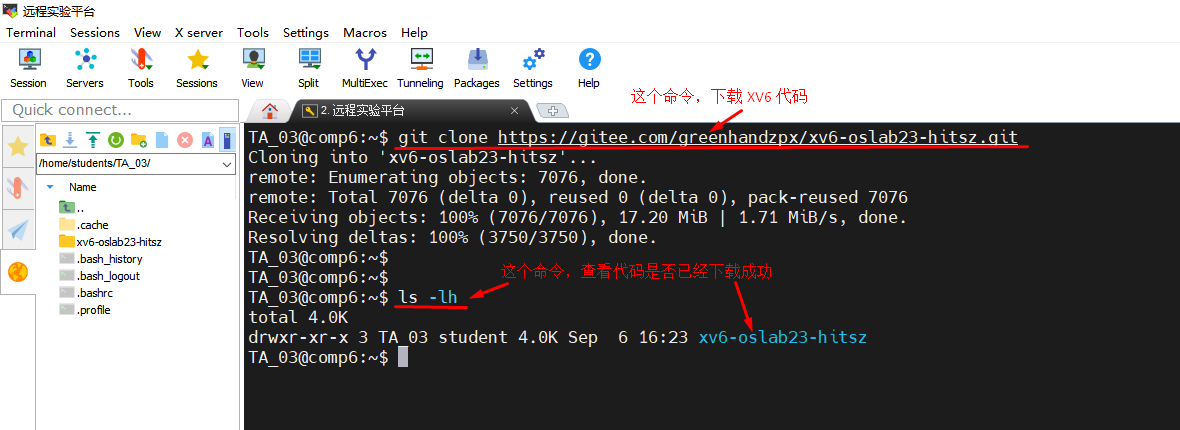
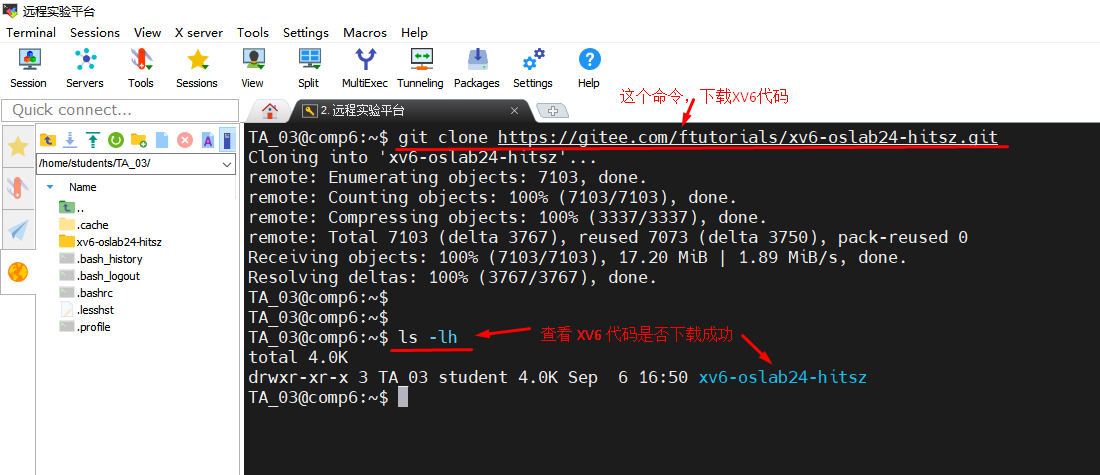
update xv6 code to 24

Changed region(s): [[0.0, 0.0, 1.0, 1.0]]

diff --git a/Chapter01/Chapter01.md b/Chapter01/Chapter01.md
@@ -92,7 +92,7 @@ SSH服务器IP：10.249.12.98  端口：6666
 ```bash
 # 输入下面命令，下载 XV6 代码到实验服务器上
 
-git clone https://gitee.com/greenhandzpx/xv6-oslab23-hitsz.git
+git clone https://gitee.com/ftutorials/xv6-oslab24-hitsz.git
 
 # 查看代码是否下载成功
 
@@ -114,7 +114,7 @@ ls -lh
 
 ```bash
 # 进入代码目录，查看文件
-cd xv6-oslab23-hitsz
+cd xv6-oslab24-hitsz
 
 # 查看目录，你会发现里面只有一个 Readme.md 文件
 ls -lh
